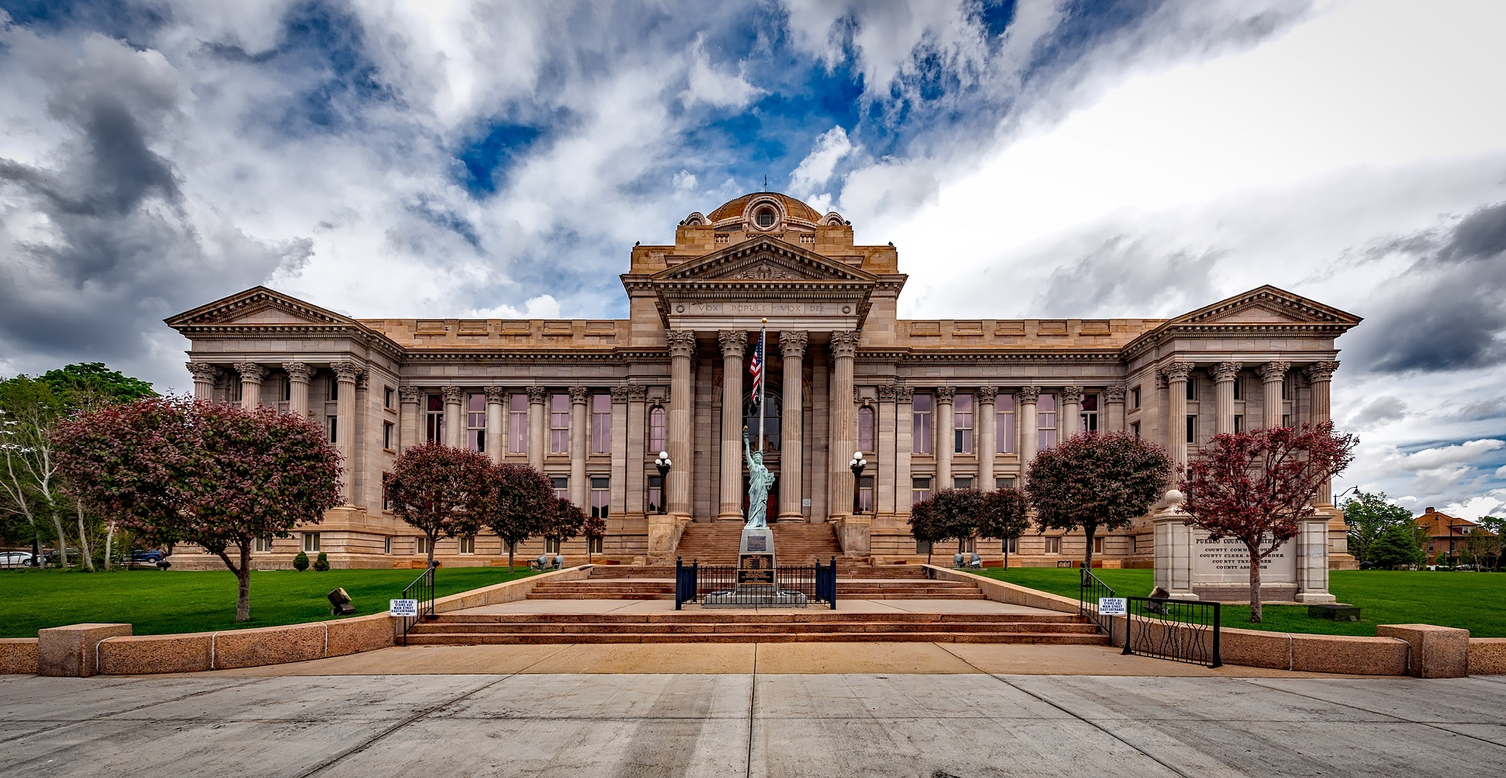
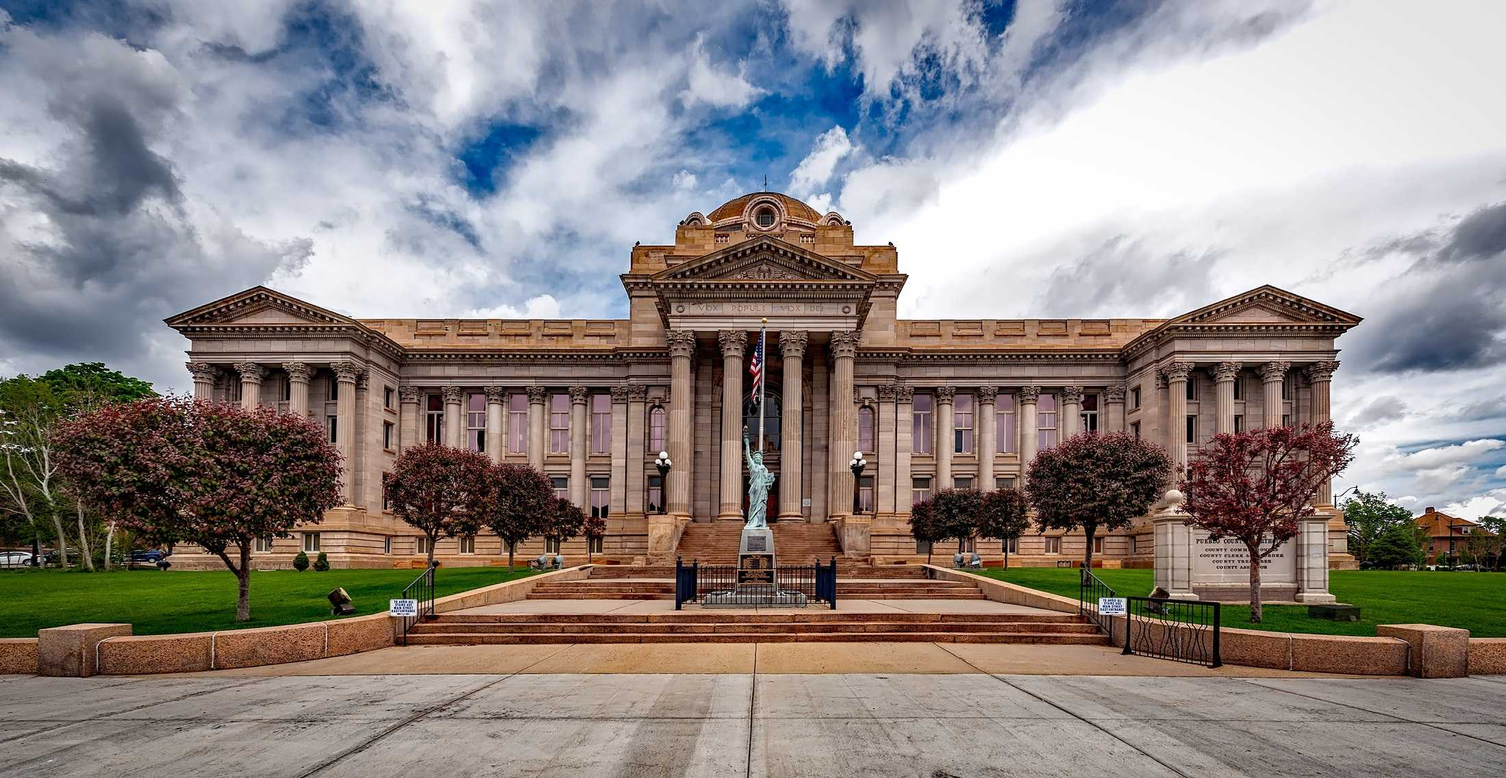
change photo size

diff --git a/index.html b/index.html
@@ -64,8 +64,8 @@
 
           <h1>Welcome to Law Desk India
           </h1>
-          <p class="flow-text">LAW DESK INDIA is a well recognized, reputed, legalistic approached, skilled and professionally managed law firm
-            based in Kochi, Kerala, India.</p>
+          <p class="flow-text">LAW DESK INDIA is a well recognized, reputed, legalistic approached, skilled and professionally
+            managed law firm based in Kochi, Kerala, India.</p>
         </div>
       </div>
     </div>
@@ -114,13 +114,14 @@
           </h4>
 
 
-          <p class="flow-text center about-2">LAW DESK INDIA is a FULL SERVICE LAW FIRM and works together with many law firms in India and Middle East in different
-            jurisdictions to facilitate and cater its national and multinational clients with immaculate consistent and impeccable
-            quality legal services in all main areas of Indian and Middle East Laws.</p>
+          <p class="flow-text center about-2">LAW DESK INDIA is a FULL SERVICE LAW FIRM and works together with many law
+            firms in India and Middle East in different jurisdictions to facilitate and cater its national and multinational
+            clients with immaculate consistent and impeccable quality legal services in all main areas of Indian and Middle
+            East Laws.</p>
 
-          <p class="flow-text center about-1">Our exposures at the Commercial Practice and a Developed Litigation Practice have equipped us with sufficient skill
-            to learn and apply the entire branches of law. We have good team player with a high degree of motivation and
-            discipline.
+          <p class="flow-text center about-1">Our exposures at the Commercial Practice and a Developed Litigation Practice
+            have equipped us with sufficient skill to learn and apply the entire branches of law. We have good team player
+            with a high degree of motivation and discipline.
           </p>
 
 
@@ -201,10 +202,10 @@
             <b>PRACTICE</b>
             <span class="red-text">AREAS</span>
           </h4>
-          <p class="flow-text">LAW DESK INDIA is a well recognized, reputed, legalistic approached, skilled and professionally managed law firm
-            based in Kochi, kerala, India. Our exposures at the Commercial Practice and a Developed Litigation Practice have
-            equipped us with sufficient skill to learn and apply the entire branches of law. However, we have quote below
-            some of our area of practice.</p>
+          <p class="flow-text">LAW DESK INDIA is a well recognized, reputed, legalistic approached, skilled and professionally
+            managed law firm based in Kochi, kerala, India. Our exposures at the Commercial Practice and a Developed Litigation
+            Practice have equipped us with sufficient skill to learn and apply the entire branches of law. However, we have
+            quote below some of our area of practice.</p>
         </div>
       </div>
 
@@ -318,10 +319,10 @@
             <h4 class="white-text">
               <b>PERSONAL INJURY LAWERS</b>
             </h4>
-            <p class="flow-text white-text">Lorem ipsum dolor sit amet consectetur adipisicing elit. Repellendus maiores sed fugit blanditiis eaque, sint
-              maxime. Hic deleniti voluptatibus repellendus! Lorem ipsum dolor sit amet consectetur adipisicing elit. Incidunt,
-              nisi. Lorem ipsum, dolor sit amet consectetur adipisicing elit. Quam debitis quidem quis! Voluptate libero
-              ut nam voluptates rerum, ipsam vero!</p>
+            <p class="flow-text white-text">Lorem ipsum dolor sit amet consectetur adipisicing elit. Repellendus maiores
+              sed fugit blanditiis eaque, sint maxime. Hic deleniti voluptatibus repellendus! Lorem ipsum dolor sit amet
+              consectetur adipisicing elit. Incidunt, nisi. Lorem ipsum, dolor sit amet consectetur adipisicing elit. Quam
+              debitis quidem quis! Voluptate libero ut nam voluptates rerum, ipsam vero!</p>
 
             <a href="#!" class="btn-large waves-effect waves-light red lighten-1">Read More </a>
           </div>
@@ -338,8 +339,8 @@
         <b>OUR</b>
         <span class="red-text">SERVICES</span>
       </h4>
-      <p class="flow-text">Lorem ipsum dolor sit amet consectetur, adipisicing elit. Consectetur neque provident sapiente vitae ullam, aliquam
-        quas amet fuga odio magnam!</p>
+      <p class="flow-text">Lorem ipsum dolor sit amet consectetur, adipisicing elit. Consectetur neque provident sapiente
+        vitae ullam, aliquam quas amet fuga odio magnam!</p>
 
       <div class="row row-1">
         <div class="col s12 m3">
@@ -452,8 +453,8 @@
       <b>OUR ATTORNEYS</b>
       <span class="red-text">TEAM</span>
     </h4>
-    <p class="flow-text">Lorem ipsum dolor sit amet consectetur adipisicing elit. Ut corporis incidunt, ea provident officia nisi error. Veniam
-      quidem officia corrupti!</p>
+    <p class="flow-text">Lorem ipsum dolor sit amet consectetur adipisicing elit. Ut corporis incidunt, ea provident officia
+      nisi error. Veniam quidem officia corrupti!</p>
 
     <div class="row row-1">
       <div class="container">
@@ -528,7 +529,7 @@
         <div class="col s12 m4 l4">
           <div class="card hvr-grow">
             <div class="card-image">
-              <img src="img/t3.jpg" alt="" style="height: 270px;">
+              <img src="img/t3.jpg" alt="">
             </div>
             <h5 class="card-title red-text">Rashid</h5>
             <div class="card-content">
